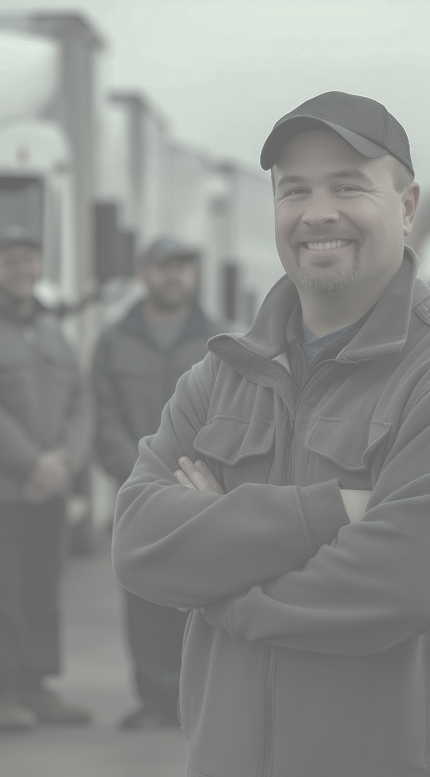
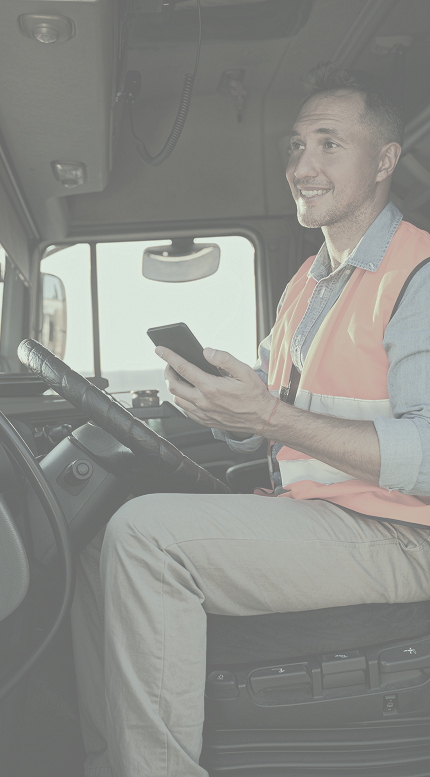
fix: change background iamge on Top page view #CRE8-327

diff --git a/frontend/app/(tabs)/index.tsx b/frontend/app/(tabs)/index.tsx
@@ -64,7 +64,7 @@ const styles = StyleSheet.create({
   },
   overlay: {
     ...StyleSheet.absoluteFillObject,
-    backgroundColor: 'rgba(14, 34, 90, 0.542)',
+    backgroundColor: 'rgba(5, 5, 45, 0.574)',
   },
   roundButton: {
     width: 140,
